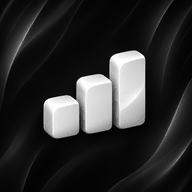
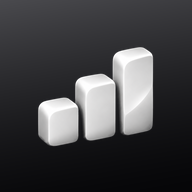
Ícone novo e fim das iniciais (#22)
- novo ícone: barras brancas recortadas da logo, sobre fundo degradê do cinza ao preto
  (PWA 192/512, maskable com zona segura, apple-touch-icon, favicon, logo.webp)
- avatar sem foto mostra a logo em vez das iniciais (topo, menu lateral, perfil)
- URLs dos ícones versionadas (?v=2) e cache do service worker renovado (mrd-v9),
  para o celular e o computador buscarem o ícone novo

Claude-Session: https://claude.ai/code/session_017rcFcewCyeXcSRg1h5PHSo

diff --git a/app/login/page.tsx b/app/login/page.tsx
@@ -40,7 +40,7 @@ export default function LoginPage() {
       <div className="hidden lg:flex lg:w-1/2 bg-black text-white flex-col justify-center items-center p-12">
         <div className="max-w-md text-center space-y-6">
           {/* eslint-disable-next-line @next/next/no-img-element */}
-          <img src="/logo.webp" alt="Logo MRD" width={96} height={96} className="mx-auto h-24 w-24 rounded-3xl" />
+          <img src="/logo.webp?v=2" alt="Logo MRD" width={96} height={96} className="mx-auto h-24 w-24 rounded-3xl" />
           <h1 className="text-4xl font-bold">MRD</h1>
           <h2 className="text-xl font-medium text-gray-300">Mínimo Ridículo Diário</h2>
           <p className="text-gray-400 leading-relaxed">
@@ -54,7 +54,7 @@ export default function LoginPage() {
         <div className="w-full max-w-sm space-y-6">
           <div className="lg:hidden text-center space-y-3">
             {/* eslint-disable-next-line @next/next/no-img-element */}
-            <img src="/logo.webp" alt="Logo MRD" width={72} height={72} className="mx-auto h-[72px] w-[72px] rounded-2xl shadow-lg" />
+            <img src="/logo.webp?v=2" alt="Logo MRD" width={72} height={72} className="mx-auto h-[72px] w-[72px] rounded-2xl shadow-lg" />
             <h1 className="text-2xl font-bold text-foreground">MRD</h1>
             <p className="mx-auto max-w-xs text-sm text-muted-foreground">
               Construa hábitos com tarefas tão pequenas, tão pequenas, que será ridículo não executar.

diff --git a/components/avatar.tsx b/components/avatar.tsx
@@ -2,28 +2,16 @@
 
 import { cn } from "@/lib/utils"
 
-export function Avatar({ photo, name, className }: { photo?: string; name?: string; className?: string }) {
-  const initials =
-    (name ?? "")
-      .split(" ")
-      .filter(Boolean)
-      .slice(0, 2)
-      .map((p) => p[0]?.toUpperCase())
-      .join("") || "MRD".slice(0, 1)
-
+/** Foto do perfil; sem foto, mostra a logo do MRD (nunca iniciais). */
+export function Avatar({ photo, className }: { photo?: string; name?: string; className?: string }) {
   return (
-    <span
-      className={cn(
-        "flex shrink-0 items-center justify-center overflow-hidden rounded-full bg-muted font-semibold text-foreground",
-        className,
-      )}
-    >
-      {photo ? (
-        // eslint-disable-next-line @next/next/no-img-element
-        <img src={photo} alt="Foto de perfil" className="h-full w-full object-cover" />
-      ) : (
-        initials
-      )}
+    <span className={cn("flex shrink-0 items-center justify-center overflow-hidden rounded-full bg-black", className)}>
+      {/* eslint-disable-next-line @next/next/no-img-element */}
+      <img
+        src={photo || "/logo.webp?v=2"}
+        alt={photo ? "Foto de perfil" : "MRD"}
+        className="h-full w-full object-cover"
+      />
     </span>
   )
 }

diff --git a/components/desktop-sidebar.tsx b/components/desktop-sidebar.tsx
@@ -37,7 +37,7 @@ export function DesktopSidebar({ pathname }: { pathname: string }) {
     <aside className="sticky top-0 hidden h-dvh w-56 shrink-0 xl:w-64 flex-col border-r border-border bg-background px-4 py-6 lg:flex">
       <Link href="/" className="mb-8 flex items-center gap-3 px-2">
         {/* eslint-disable-next-line @next/next/no-img-element */}
-        <img src="/logo.webp" alt="" width={36} height={36} className="h-9 w-9 rounded-xl" />
+        <img src="/logo.webp?v=2" alt="" width={36} height={36} className="h-9 w-9 rounded-xl" />
         <span>
           <span className="block text-base font-semibold leading-tight">MRD</span>
           <span className="block text-[11px] leading-tight text-muted-foreground">Mínimo Ridículo Diário</span>

diff --git a/app/manifest.ts b/app/manifest.ts
@@ -12,9 +12,9 @@ export default function manifest(): MetadataRoute.Manifest {
     theme_color: "#000000",
     lang: "pt-BR",
     icons: [
-      { src: "/icon-192.png", sizes: "192x192", type: "image/png" },
-      { src: "/icon-512.png", sizes: "512x512", type: "image/png" },
-      { src: "/icon-maskable.png", sizes: "512x512", type: "image/png", purpose: "maskable" },
+      { src: "/icon-192.png?v=2", sizes: "192x192", type: "image/png", purpose: "any" },
+      { src: "/icon-512.png?v=2", sizes: "512x512", type: "image/png", purpose: "any" },
+      { src: "/icon-maskable.png?v=2", sizes: "512x512", type: "image/png", purpose: "maskable" },
     ],
   }
 }

diff --git a/public/sw.js b/public/sw.js
@@ -1,6 +1,6 @@
 // MRD service worker: cache do app para abrir offline + clique em notificação
-const CACHE = "mrd-v8"
-const SHELL = ["/", "/novo", "/analise", "/login", "/icon-192.png"]
+const CACHE = "mrd-v9"
+const SHELL = ["/", "/novo", "/analise", "/login", "/icon-192.png?v=2"]
 
 self.addEventListener("install", (event) => {
   event.waitUntil(caches.open(CACHE).then((c) => c.addAll(SHELL)).catch(() => {}))

diff --git a/app/layout.tsx b/app/layout.tsx
@@ -15,7 +15,7 @@ import "./globals.css"
 export const metadata: Metadata = {
   title: "minimo ridículo - Rastreador de Hábitos",
   description: "Um rastreador de hábitos minimalista e sem distrações",
-  icons: { icon: "/favicon.ico", apple: "/apple-icon.png" },
+  icons: { icon: "/favicon.ico", apple: "/apple-icon.png?v=2" },
   appleWebApp: { capable: true, title: "MRD", statusBarStyle: "default" },
 }
 

diff --git a/components/splash.tsx b/components/splash.tsx
@@ -35,7 +35,7 @@ export function Splash() {
     >
       {/* eslint-disable-next-line @next/next/no-img-element */}
       <img
-        src="/logo.webp"
+        src="/logo.webp?v=2"
         alt=""
         width={112}
         height={112}
